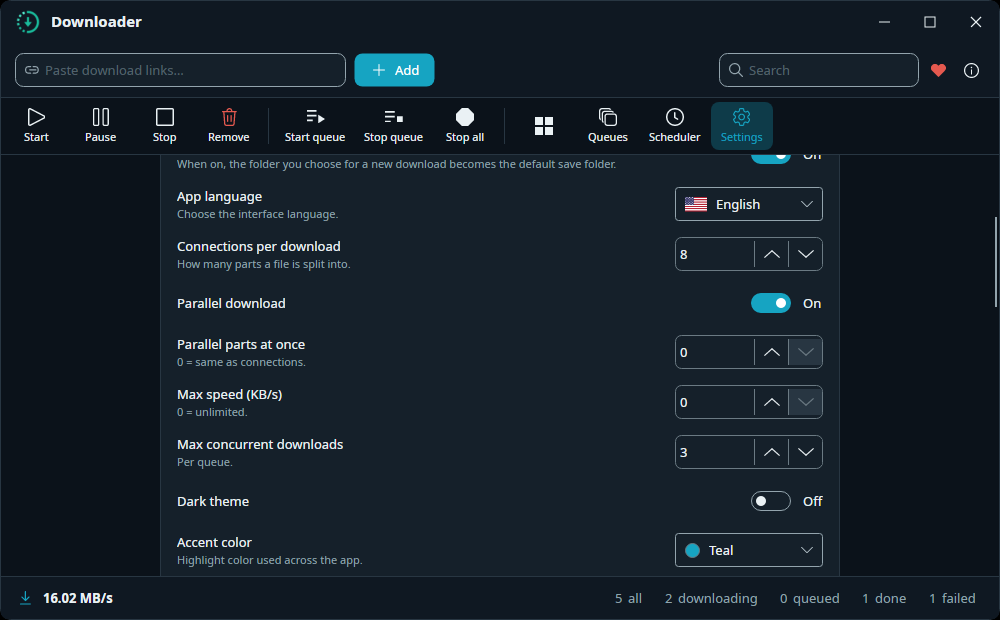
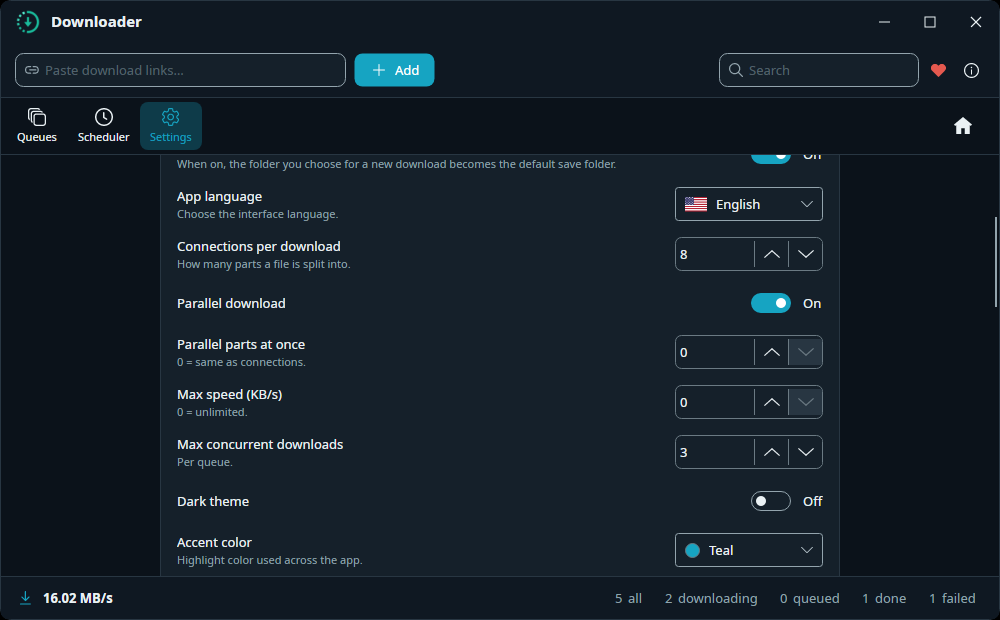
feat(ui): toolbar polish — page-scoped actions, right-pinned Home button, Esc closes Add dialog
- Downloads-list actions (Start/Pause/Stop/Remove + queue buttons) are hidden on
  the Queues/Scheduler/Settings pages.
- The back-to-Downloads nav button now uses a Home icon and is pinned to the
  toolbar's right edge (mirrors correctly in RTL).
- Esc closes the Add-link dialog like every other dialog (+ headless regression
  test). Screenshots regenerated.

diff --git a/src/Downloader.Desktop.Tests/UI/AppTests.cs b/src/Downloader.Desktop.Tests/UI/AppTests.cs
@@ -385,6 +385,26 @@ public class AppTests
     }
 
     [AvaloniaFact]
+    public void Add_dialog_esc_closes_it()
+    {
+        // Esc must close the Add-link dialog like every other custom-chrome dialog (no native chrome
+        // means no built-in close-on-Esc).
+        var config = Config.New();
+        var vm = new AddDownloadItemViewModel(config, string.Empty,
+            (_, _) => Task.FromResult<(string, long)?>(null), TimeSpan.Zero);
+        var view = new Views.AddDownloadItemView { DataContext = vm };
+        vm.View = view;
+        view.Show();
+
+        var closed = false;
+        view.Closed += (_, _) => closed = true;
+        view.KeyPress(Avalonia.Input.Key.Escape, Avalonia.Input.RawInputModifiers.None,
+            Avalonia.Input.PhysicalKey.Escape, null);
+
+        Assert.True(closed);
+    }
+
+    [AvaloniaFact]
     public async Task Add_dialog_ignores_clipboard_when_seed_url_present()
     {
         var config = Config.New();

diff --git a/src/Downloader.Desktop/Views/AddDownloadItemView.axaml.cs b/src/Downloader.Desktop/Views/AddDownloadItemView.axaml.cs
@@ -18,6 +18,20 @@ public partial class AddDownloadItemView : Window
         UrlBox.AddHandler(KeyDownEvent, OnUrlBoxKeyDown, RoutingStrategies.Tunnel);
     }
 
+    /// <summary>Esc closes the dialog (standard dialog behavior, since there is no native chrome).
+    /// Not reached when the inline queue-name editor handles Esc first (it cancels that row).</summary>
+    protected override void OnKeyDown(KeyEventArgs e)
+    {
+        if (e.Key == Key.Escape)
+        {
+            e.Handled = true;
+            Close();
+            return;
+        }
+
+        base.OnKeyDown(e);
+    }
+
     /// <summary>Enter in the inline queue-name box confirms the new queue; Esc cancels the row.</summary>
     private void OnQueueNameKeyDown(object sender, KeyEventArgs e)
     {

diff --git a/.claude/skills/downloader-desktop/SKILL.md b/.claude/skills/downloader-desktop/SKILL.md
@@ -201,7 +201,7 @@ See `CLAUDE.md` at the repo root for product vision, locked decisions, and the f
 - **NOT YET (Phase 2):** the download-pipeline integration (`JobCoordinator` + multi-part download + the `ITransfer` refactor so the queue/UI drive torrent/HLS uniformly) and the official HLS (yt-dlp+ffmpeg)/torrent plugins. `PluginManager.ResolveAsync` is the ready hook.
 
 ## Round 20 patterns (no-left-nav UI, dialogs, update fixes, expired-link, plugin docs)
-- **NO left nav rail; pages open IN the main window (2026-07-10, superseding the earlier page-dialog model).** `MainWindow`'s central `ContentControl` binds `MainViewModel.CurrentPage`; the three Show*Commands + `ShowDownloadsCommand` call `Navigate(NavSection.X)` (no dialogs — `PageDialogView` + `DialogHelper.ShowPage` + `PageDialogWindowKey` were DELETED). The **action toolbar lives in `MainWindow`** (docked under the top bar, visible on every page): bulk buttons bind through `Downloads.*` (e.g. `{Binding Downloads.StartSelectedCommand}` — null-safe until init, refreshed by `RaisePropertyChanged(nameof(Downloads))`), nav buttons bind directly and highlight the current page via `Classes.selected="{Binding Is*Selected}"` + the `Button.tool.selected` style in App.axaml (translucent `RowSelectionBrush` fill + accent icon/text). The Downloads nav button is **icon-only** (`AppsListRegular`, tooltip `Nav_Downloads` — key exists in all 16 packs); Queues/Scheduler/Settings keep icon+label. Only Add-link, Details, About, Update-prompt remain separate windows. Plugins stay a collapsible `Expander` in `SettingView`.
+- **NO left nav rail; pages open IN the main window (2026-07-10, superseding the earlier page-dialog model).** `MainWindow`'s central `ContentControl` binds `MainViewModel.CurrentPage`; the three Show*Commands + `ShowDownloadsCommand` call `Navigate(NavSection.X)` (no dialogs — `PageDialogView` + `DialogHelper.ShowPage` + `PageDialogWindowKey` were DELETED). The **action toolbar lives in `MainWindow`** (docked under the top bar, visible on every page): bulk buttons bind through `Downloads.*` (e.g. `{Binding Downloads.StartSelectedCommand}` — null-safe until init, refreshed by `RaisePropertyChanged(nameof(Downloads))`), nav buttons bind directly and highlight the current page via `Classes.selected="{Binding Is*Selected}"` + the `Button.tool.selected` style in App.axaml (translucent `RowSelectionBrush` fill + accent icon/text). The toolbar is a `Grid "*,Auto"`: the downloads-list action cluster (Start/Pause/Stop/Remove + queue buttons, wrapped in a StackPanel `IsVisible="{Binding IsDownloadsSelected}"`) only shows on the Downloads page; the **Home button** (icon-only `HomeRegular`, tooltip `Nav_Downloads` — key in all 16 packs) is **pinned to the right edge** (Grid.Column=1; RTL mirrors it correctly); Queues/Scheduler/Settings keep icon+label on the left. The Add-link dialog closes on **Esc** (same `OnKeyDown` override as DownloadDetailsView; the inline queue-name editor's own Esc handler wins because it marks the event handled first). Only Add-link, Details, About, Update-prompt remain separate windows. Plugins stay a collapsible `Expander` in `SettingView`.
 - **Capture gotcha:** management pages render inside MainWindow — in CaptureScreenshots just `vm.ShowSettingViewCommand.Execute(null)` (etc.) then `Save(window, …)`; return with `vm.ShowDownloadsCommand`. No page dialog to Show/Close anymore.
 - **Auto-update macOS restart loop:** the old swap extracted `Downloader.app` INTO `Contents/MacOS` (nesting) and relaunched the OLD binary → re-detect → loop. `UpdateService.WriteMacScript` now replaces the whole `.app` bundle (`appDir`=`<bundle>.app/Contents/MacOS` → bundle = `appDir/../..`) and relaunches via `open`. NOTE: an update FROM a buggy build still uses that build's broken swap — the fix only helps updates initiated from a fixed build (tell users to manually install once to break the loop). Unverifiable headless.
 - **Update cancel + version:** `UpdateFlow.CancelDownload()` (CancellationTokenSource in `DownloadAsync`; cancel → back to `Available`). Settings shows a × (`DismissRegular`) on the progress bar + `AvailableVersionText` ("vX.Y.Z available", from `UpdateFlow.AvailableTag`).
